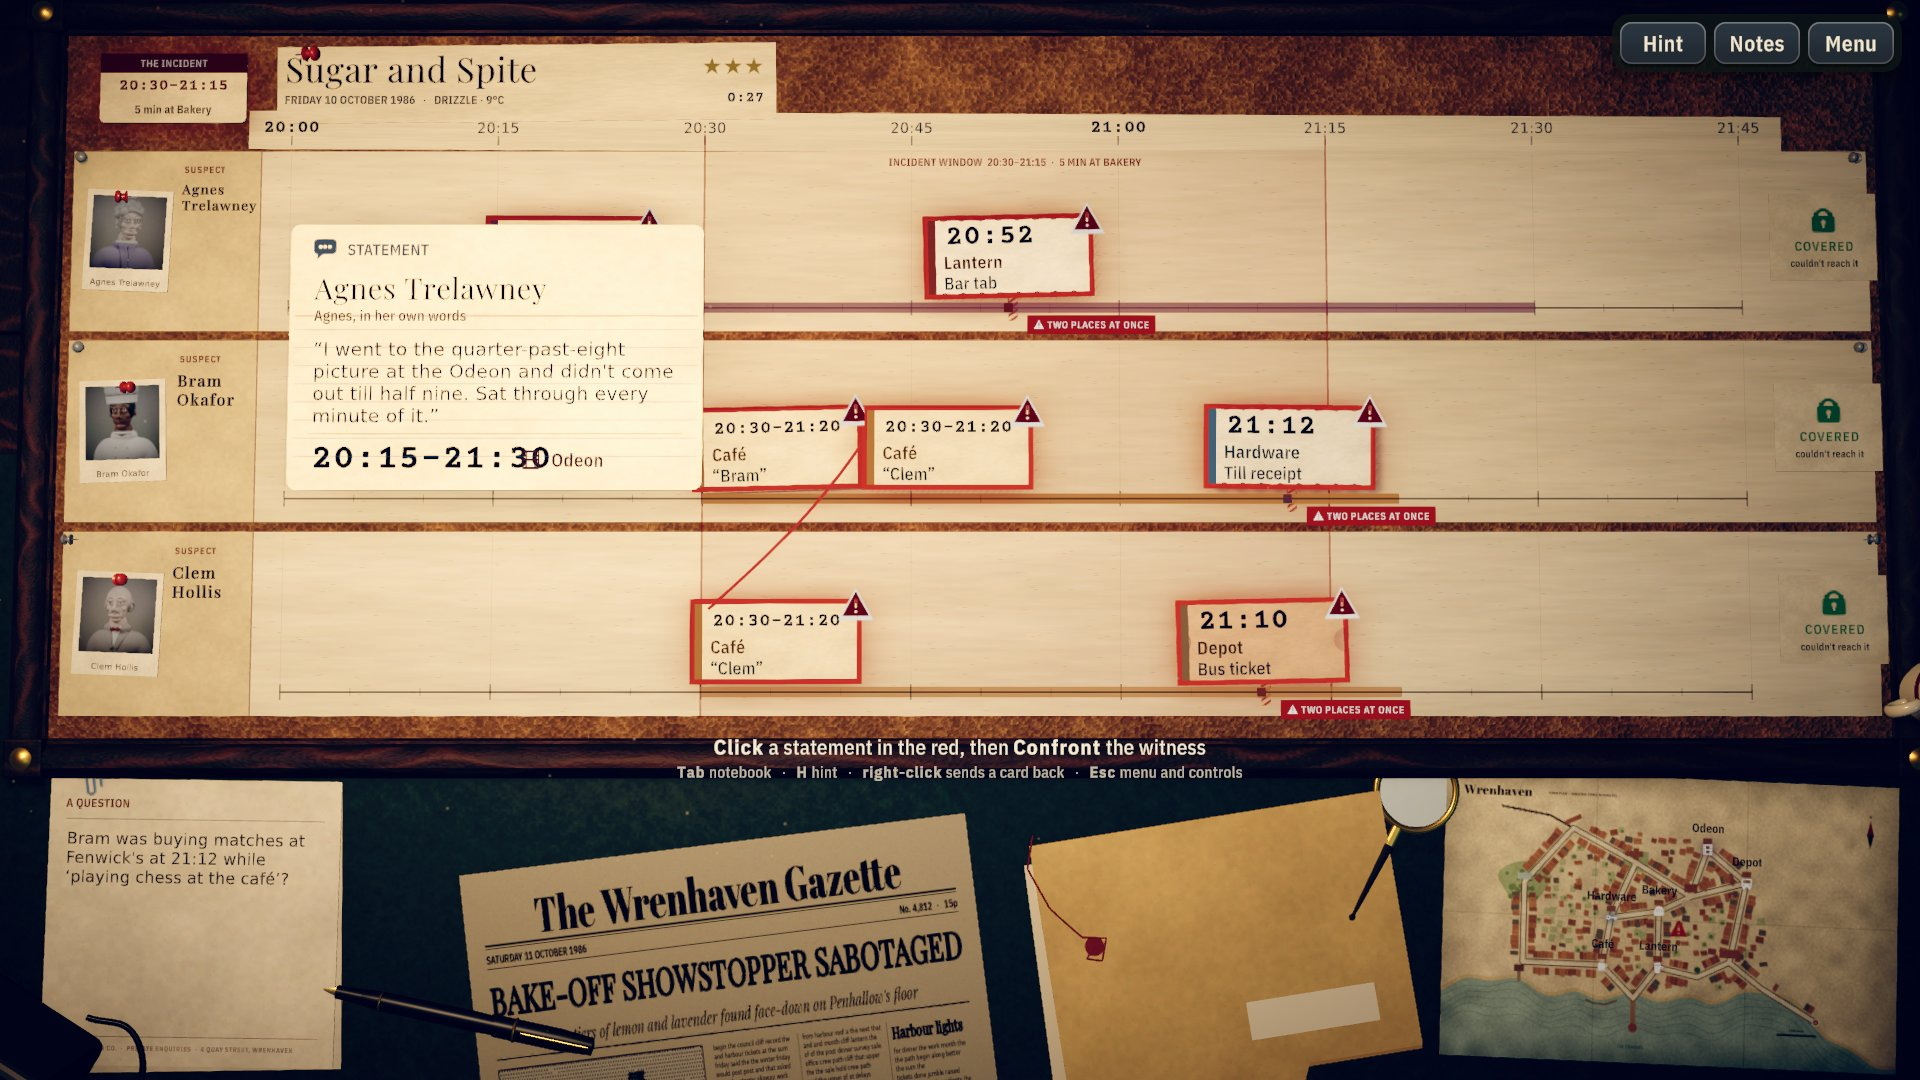
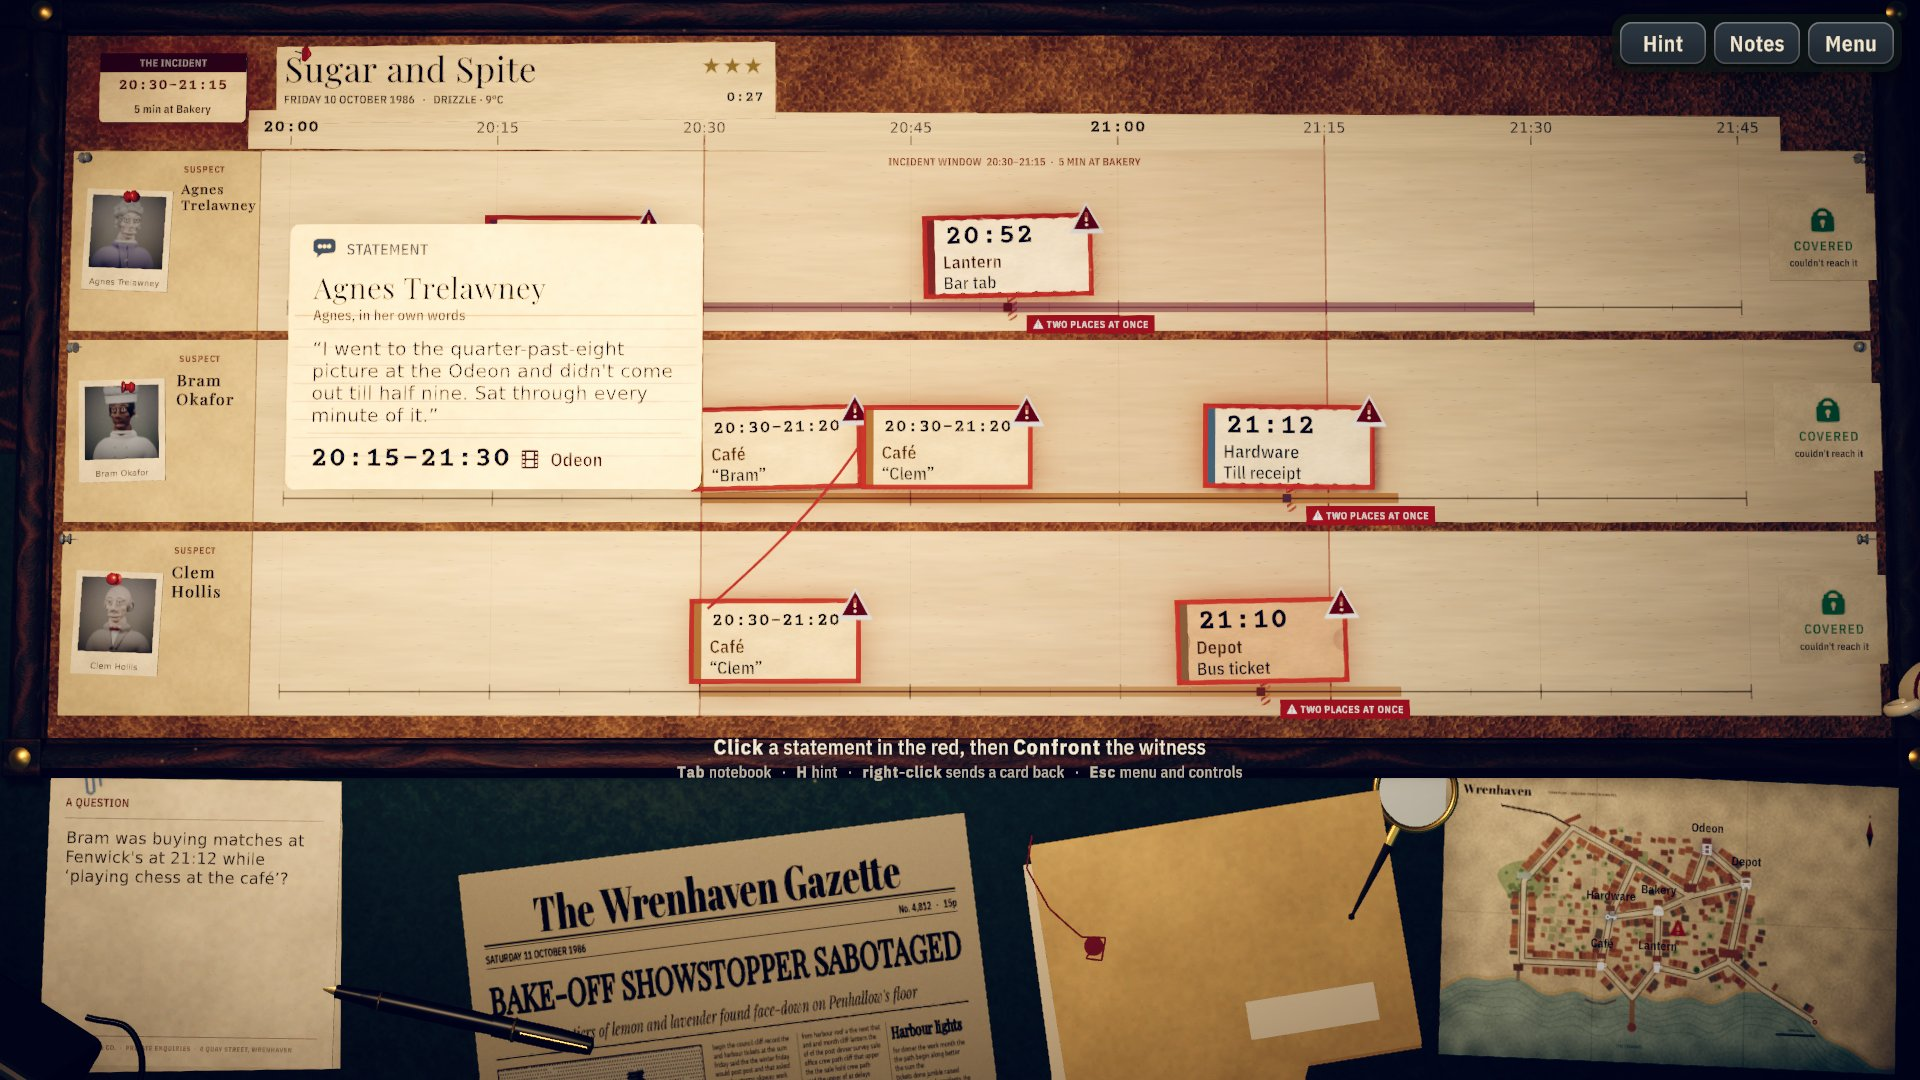
Hover card: a time range no longer runs into the place
The time stops short of the place's icon and shrinks to fit ("20:15–21:30" overlapped "Odeon").

diff --git a/Assets/Scripts/Game/CardView.cs b/Assets/Scripts/Game/CardView.cs
@@ -225,11 +225,15 @@ namespace AlibiCo
 
             // Footer: time, place, clock.
             Shapes.Quad(full, "rule", new Vector2(size.x - 0.4f, 0.012f), Art.Unlit(new Color(0.12f, 0.16f, 0.22f, 0.35f), true), new Vector3(0, -size.y / 2 + 0.56f, z));
-            fullTime = Txt(full, "time", "", AlibiCo.Art.MonoBold, 0.36f, Pal.Ink, new Vector2(2.4f, 0.46f), TextAlignmentOptions.Left,
-                new Vector3(left + 1.2f, -size.y / 2 + 0.3f, z), false);
-
             var loc = Stage.I != null ? Locations.Get(Def.Location) : null;
-            if (!Def.Town || IsIncident)
+            bool showPlace = !Def.Town || IsIncident;
+            // The time stops short of the place's icon, and a long range ("20:15–21:30") shrinks to fit.
+            float timeWidth = showPlace ? right - 1.62f - left : 2.4f;
+            fullTime = Txt(full, "time", "", AlibiCo.Art.MonoBold, 0.36f, Pal.Ink, new Vector2(timeWidth, 0.46f), TextAlignmentOptions.Left,
+                new Vector3(left + timeWidth / 2, -size.y / 2 + 0.3f, z), false);
+            fullTime.Fit(0.24f);
+
+            if (showPlace)
             {
                 var locCol = loc != null ? Pal.Hex(loc.Color) : Pal.InkSoft;
                 Shapes.Icon(full, loc != null ? loc.Icon : "pin", 0.26f, Darken(locCol, 0.75f), new Vector3(right - 1.45f, -size.y / 2 + 0.3f, z));
